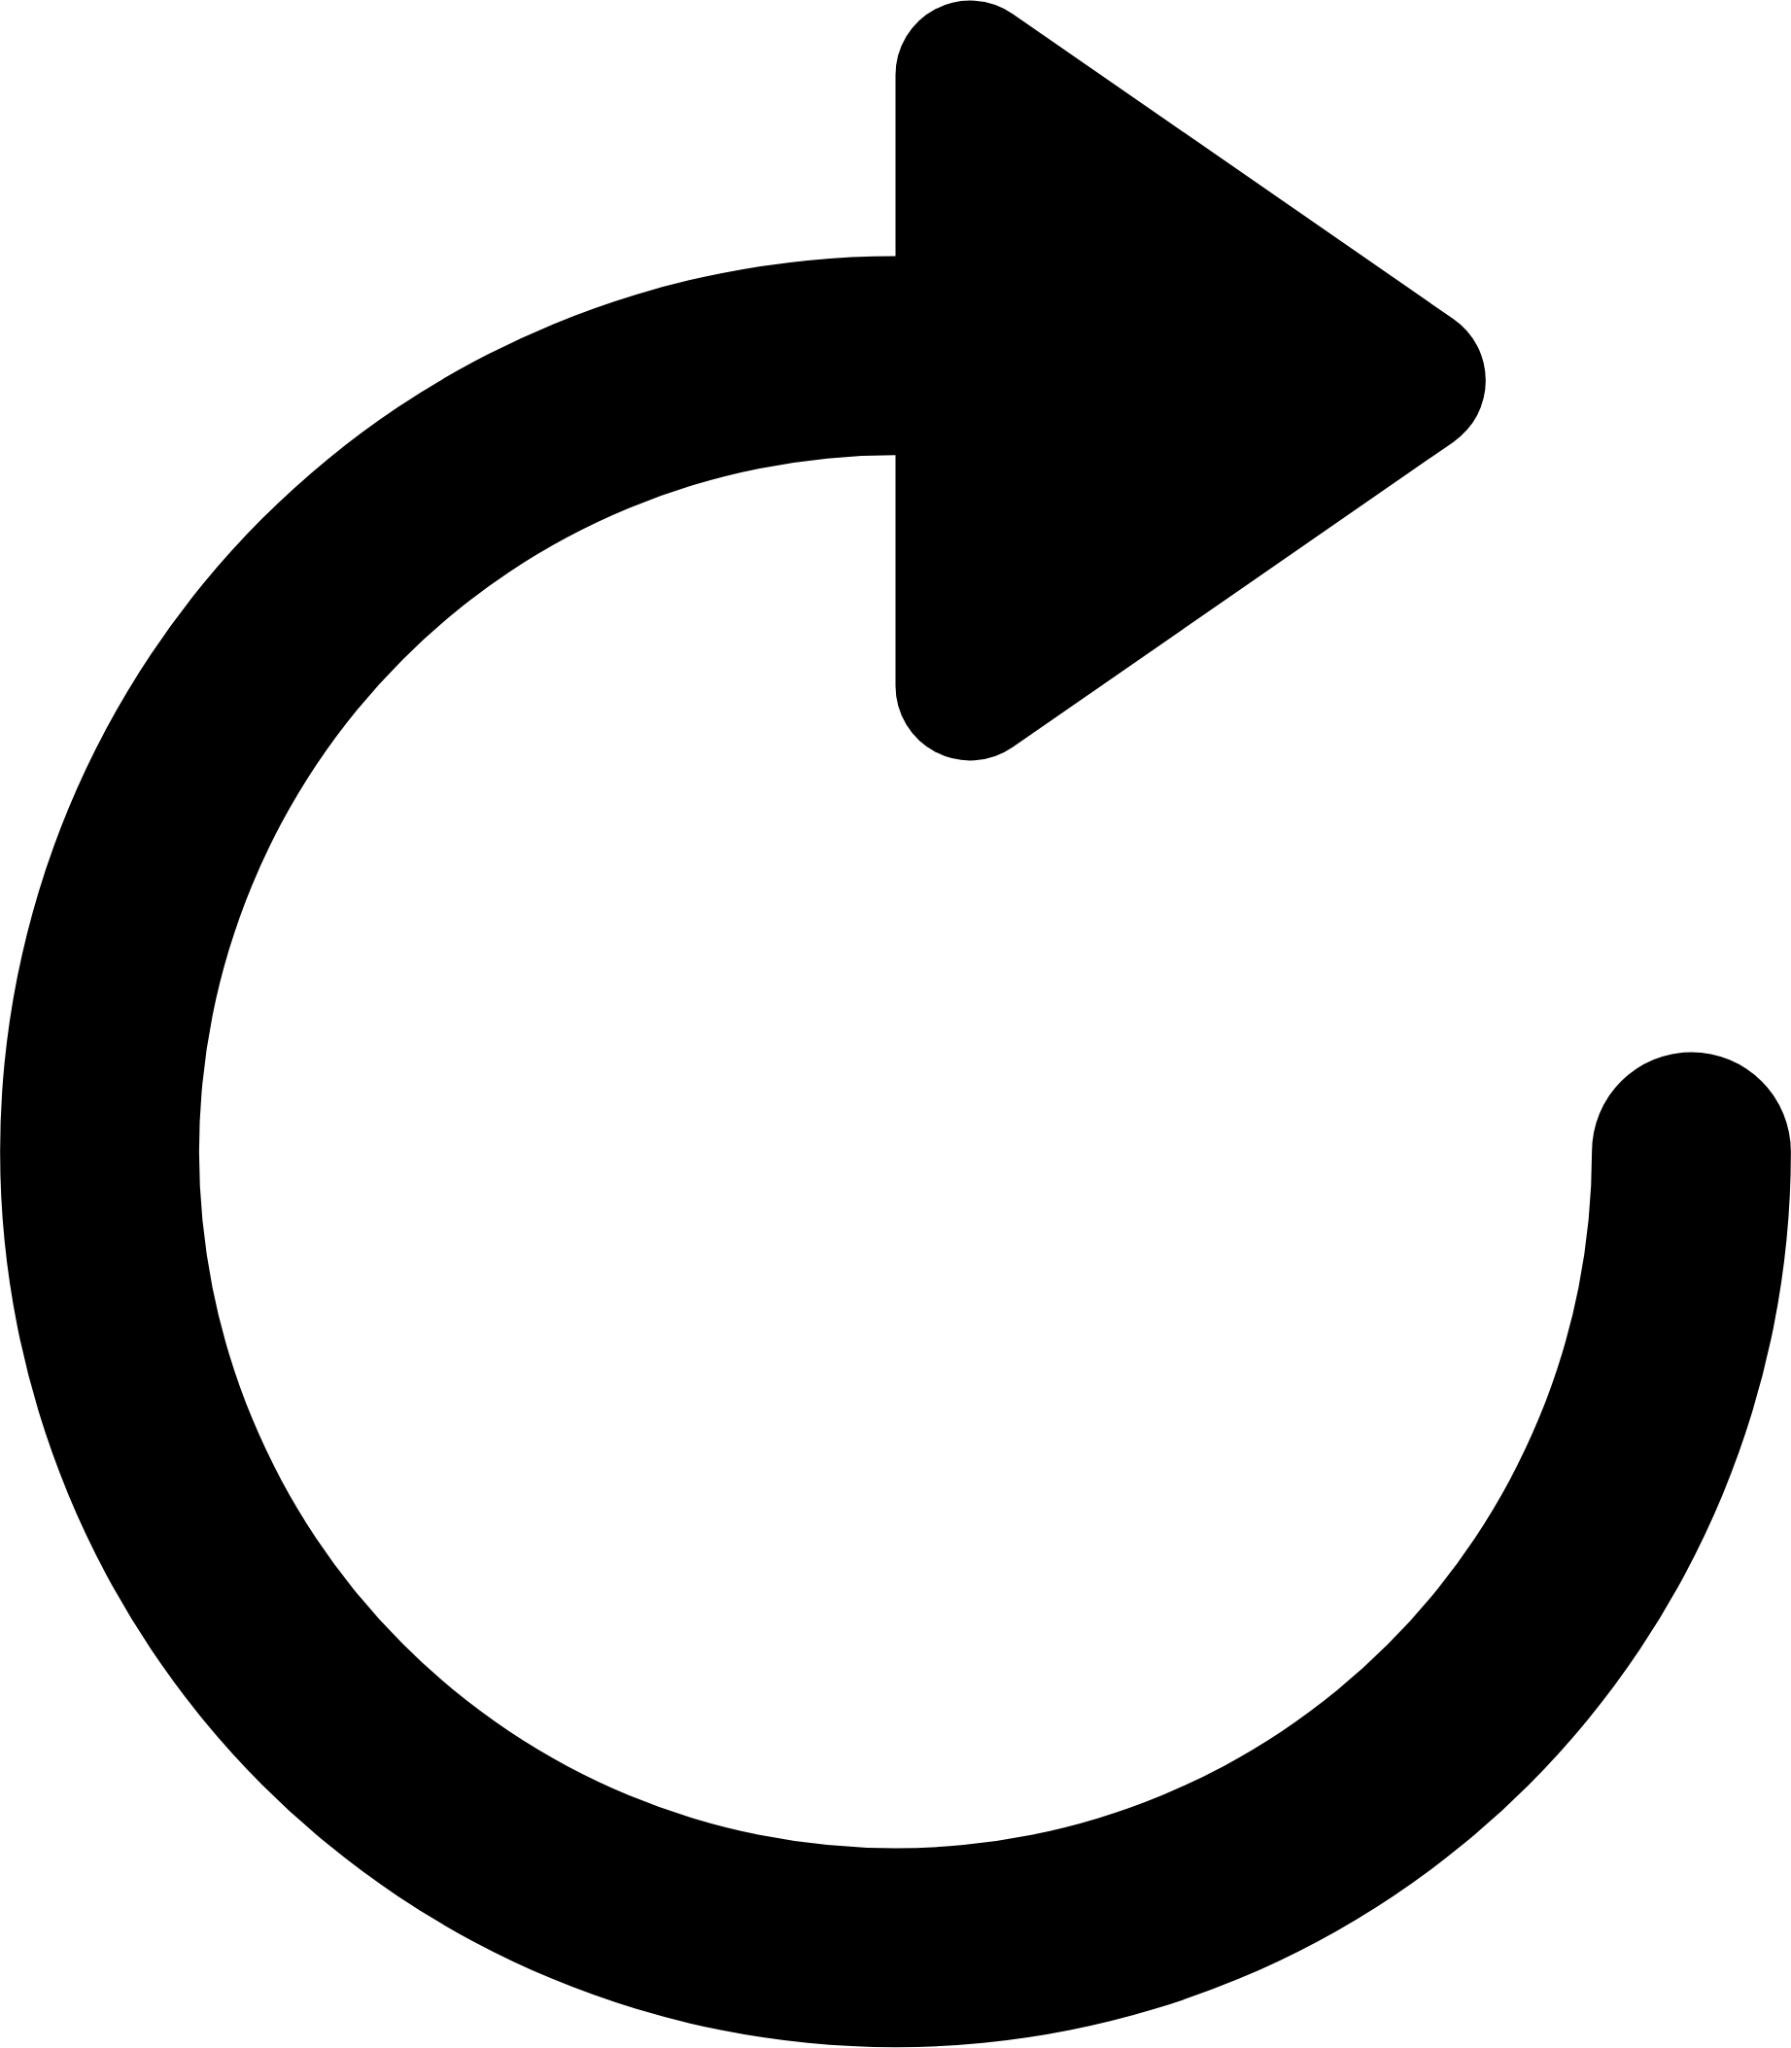
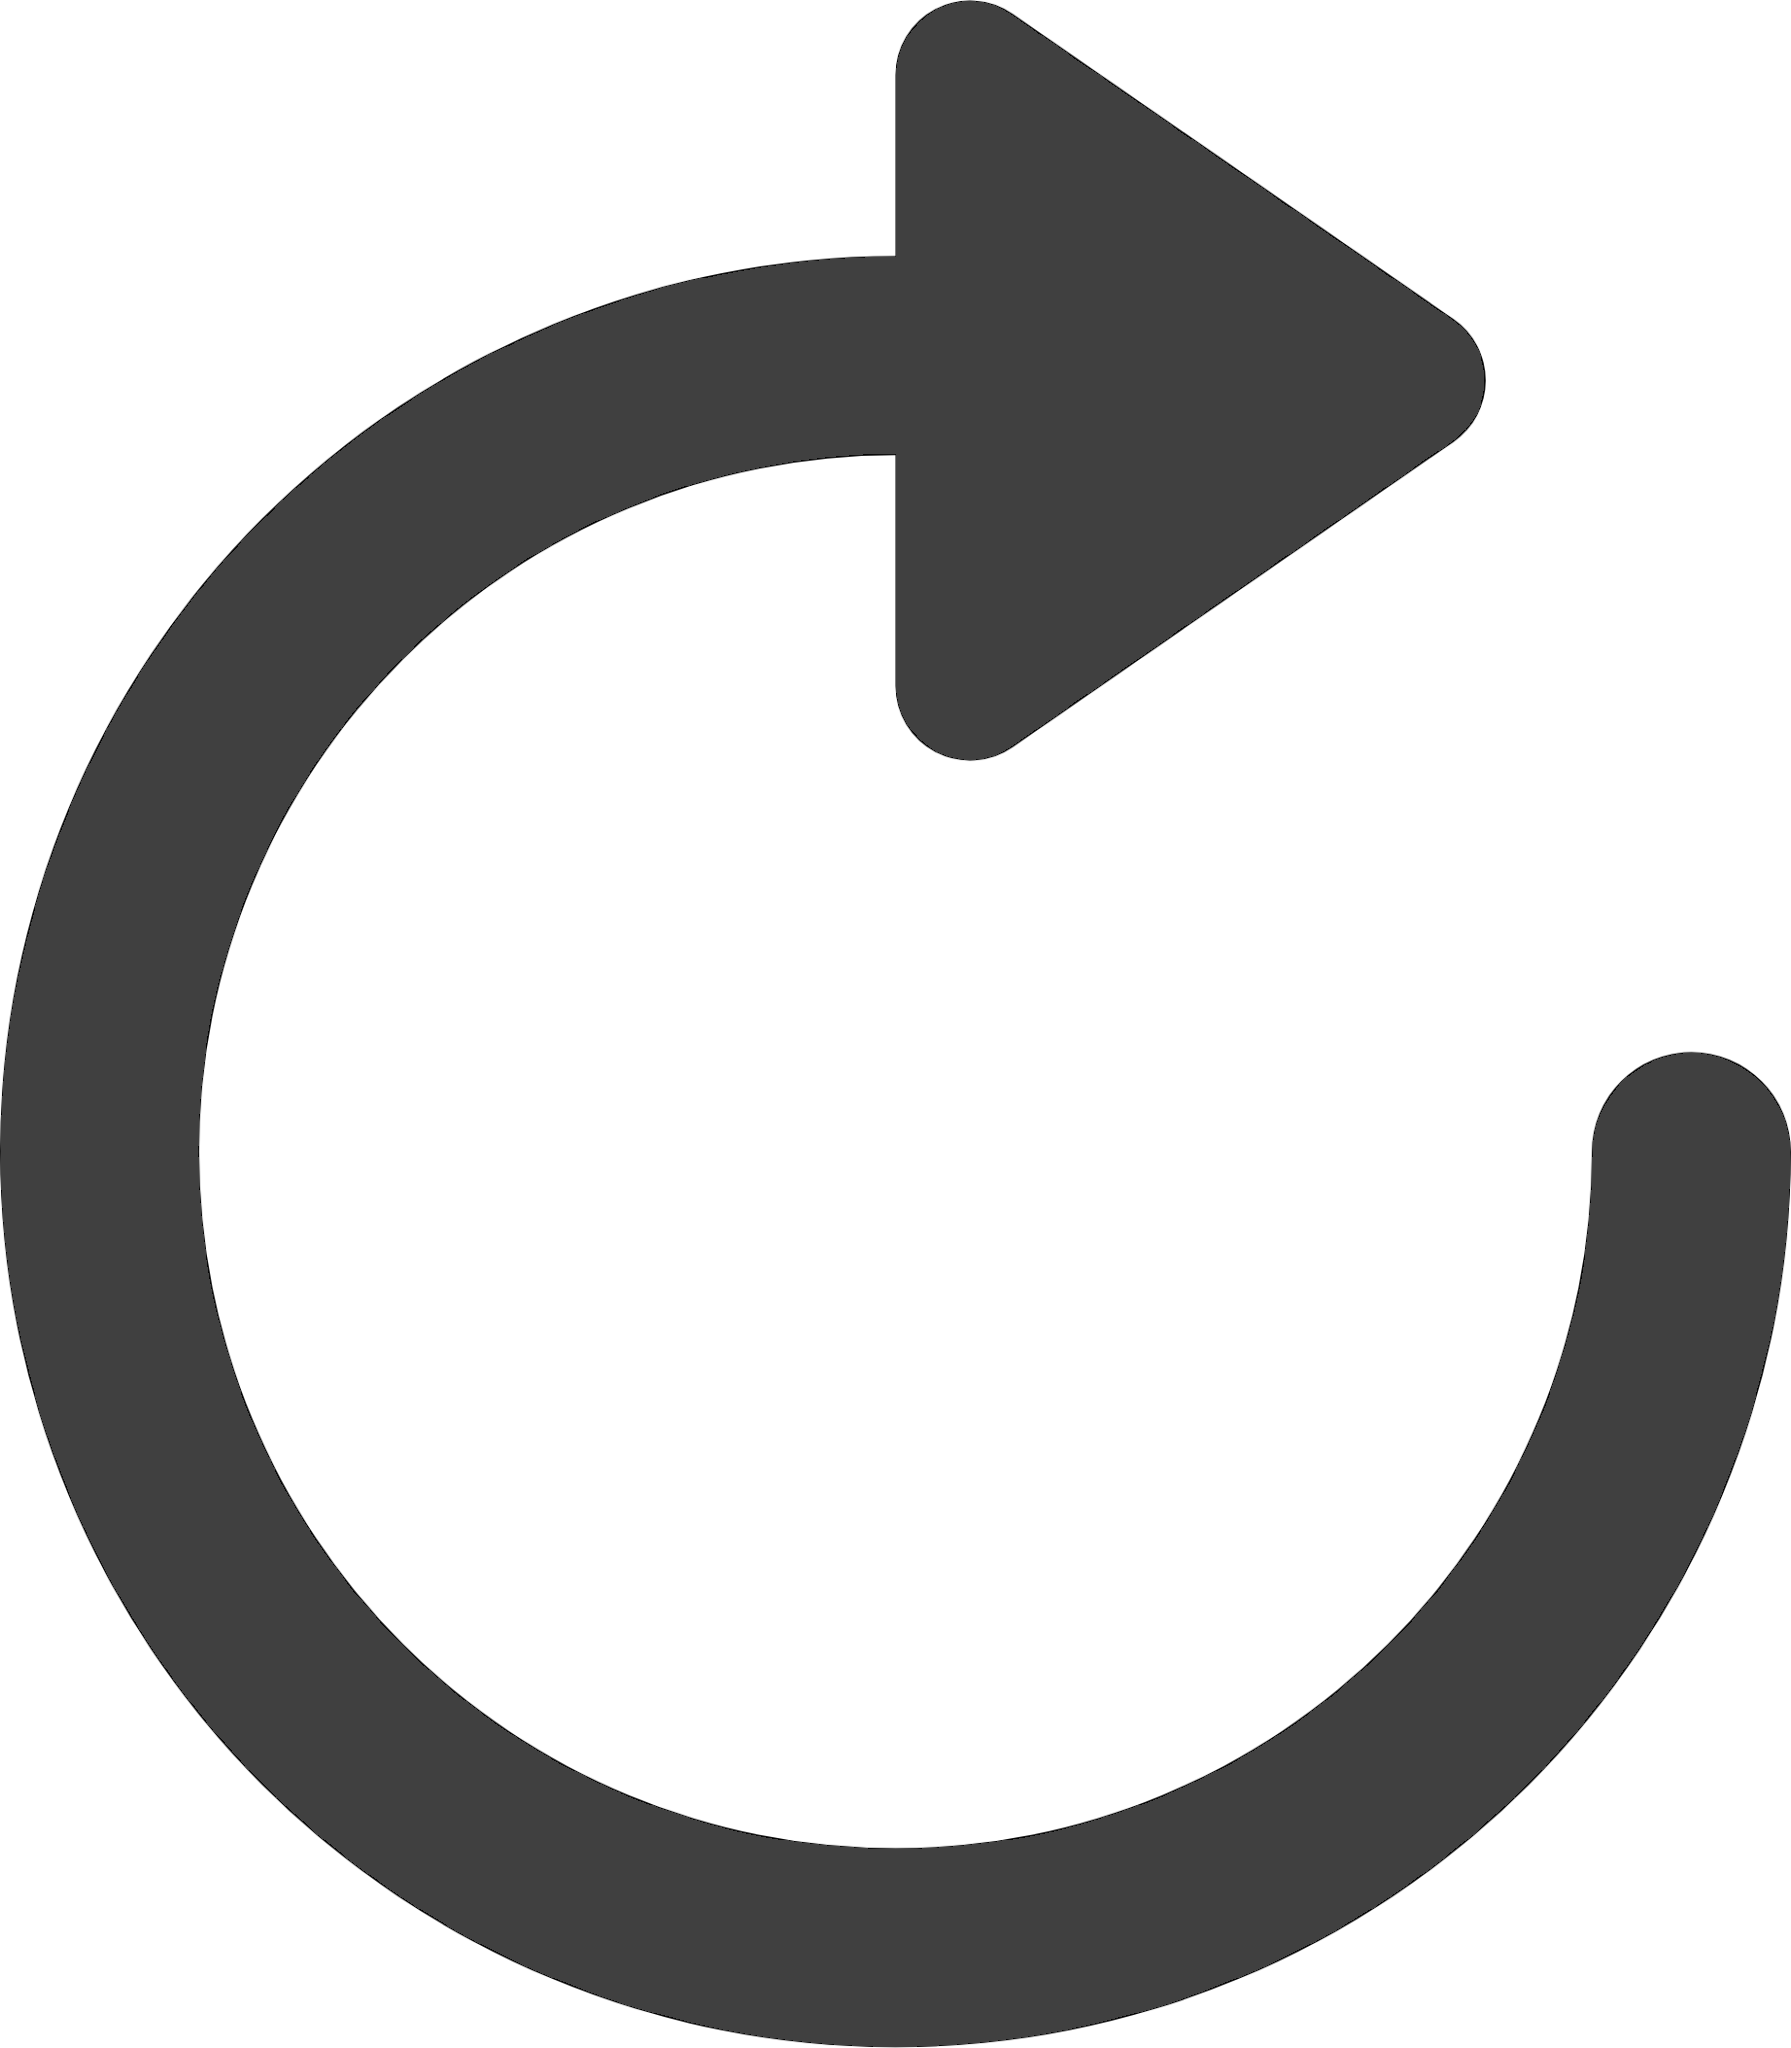
buetifications

Changed region(s): [[0.0, 0.0, 1.0, 1.0]]

diff --git a/phototherapy/index.html b/phototherapy/index.html
@@ -5,9 +5,9 @@
 <meta name="viewport" content="width=device-width, initial-scale=1.0">
 <title>צהבת ביילוד - אסותא אשדוד</title>
 <link rel="icon" href="../assets/favicon.svg">
-<link rel="stylesheet" href="../common/css/common.css">
 <link href="../3rd-party/bootstrap/bootstrap.min.css" rel="stylesheet">
 <link rel="stylesheet" href="../3rd-party/fontawesome/fontawesome-free-6.5.1-web/css/all.min.css">
+<link rel="stylesheet" href="../common/css/common.css">
 <link rel="stylesheet" href="css/phototherapy.css">
 </head>
 <body ng-app="app" ng-controller="PhototherapyController as ctrl" >
@@ -23,15 +23,16 @@
 <div id="phototherapy-main" class="container phototherapy-main-content">  
 <div id="calculator"  ng-show="ctrl.dataShown=='CALCULATOR'" >
   <div class="group-container">
-    <div style="width:100%; text-align: center;margin-top: 20px;">
-        <h1 style="width:80%;float:right;">צהבת ביילוד</h1>
-        <div class="reset-button">
-            <span ng-click="ctrl.resetAll()"><img style="cursor:pointer; width: 35px; height: 35px;margin-right:10px; " src="../assets/refresh.png"></span>
-        </div>
-        <div style="clear:both;"></div>  
-    </div>
     <form>
       <div class="container">
+        <div class="row form-group">
+            <div class="col fs-3 input-caption">
+                <h1 style="width:80%;float:right;">צהבת ביילוד</h1>
+            </div>
+            <div class="col reset-button">
+                <span ng-click="ctrl.resetAll()"><img style="cursor:pointer; width: 35px; height: 35px;margin-right:10px; " src="../assets/refresh.png"></span>
+            </div>        
+        </div>
         <div class="row form-group">
             <div class="col-auto fs-3 input-caption col-auto-buttons-cols">
                 שבוע לידה:
@@ -44,7 +45,7 @@
         <div class="row form-group">
             <div class="col-auto fs-3 input-caption col-auto-buttons-cols">
                  גורם סיכון
-                 <i style="cursor: pointer;vertical-align: top;" ng-click="ctrl.openRiskyConditions()" class="fa-solid fa-circle-info fs-4 info"></i>
+                 <i style="cursor: pointer;vertical-align: top;" ng-click="ctrl.openRiskyConditions()" class="fa-solid fa-circle-info fs-5 info"></i>
                  :
             </div>
             <div class="col" >
@@ -75,8 +76,8 @@
     <div class="col">
       <div class="card">
         <div class="card-body" ng-show="ctrl.allInputsSatisfied()">
-          <h3 class="card-title">{{ctrl.rootDiagnose}} <span style="font-size: 0.8rem;"> {{ctrl.distanceFromCurve}} </span></h3>
-          <p class="card-text">היילוד <span>{{ctrl.riskZoneObj['percentileString']}}</span>, באיזור סיכון <span>{{ctrl.riskZoneObj['riskZone']}}</span>. {{ctrl.riskZoneObj['explanation']}}.
+          <h3 class="card-title"><span class="circle" ng-style="ctrl.statusColor"></span>{{ctrl.rootDiagnose}} <span style="font-size: 0.8rem;"> {{ctrl.distanceFromCurve}} </span></h3>
+          <p class="card-text">היילוד <span>{{ctrl.riskZoneObj['percentileString']}}</span> באיזור סיכון <span>{{ctrl.riskZoneObj['riskZone']}}</span>.<br> {{ctrl.riskZoneObj['explanation']}}.
           </p>
         </div>
       </div>
@@ -92,20 +93,20 @@
   <div class="footer-container">
     <div id="footer-menu">
       <a class="footer-button" ng-click="ctrl.openRiskyConditions()">
-        <div style="color: black;"><i class="fa-solid fa-bed-pulse"></i></div>
+        <div style="color: #404040;"><i class="fa-solid fa-bed-pulse"></i></div>
         <div class="text">גורמי סיכון</div>
       </a>
     </div>
     <a class="footer-button" ng-click="ctrl.openGraph('GRAPH_38+', 'assets/graph-week-38.png')">
-        <div style="color: black;">+<i class="fa-solid fa-chart-line">38</i></div>
+        <div style="color: #404040;" >+<i class="fa-solid fa-chart-line">38</i></div>
         <div class="text">גרף שבוע 38+</div>
       </a>
       <a class="footer-button" ng-click="ctrl.openGraph('GRAPH_UNDER_38', 'assets/graph-week-under-38.png')">
-        <div style="color: black;"><i class="fa-solid fa-chart-line">37</i></div>
+        <div style="color: #404040;"><i class="fa-solid fa-chart-line">37</i></div>
         <div class="text">גרף שבוע 35-37</div>
       </a>
       <a class="footer-button" ng-click="ctrl.openGraph('GRAPH_BUTANI', 'assets/butani.png')">
-        <div style="color: black;"><i class="fa-solid fa-chart-gantt"></i></div>
+        <div style="color: #404040;"><i class="fa-solid fa-chart-gantt"></i></div>
         <div class="text">עקומת בוטאני</div>
       </a>
     </div>

diff --git a/phototherapy/css/phototherapy.css b/phototherapy/css/phototherapy.css
@@ -7,6 +7,8 @@ html, body {
     margin: 0 auto; /* Center the body horizontally */
     padding: 0;
     font-family: Arial, sans-serif;
+    color: #404040 !important;
+    background-color: white;    
 }
 
 .form-group {
@@ -30,12 +32,12 @@ html, body {
 }
 
 .checked-button {
-    background-color: blue;
+    background-color: #6FB4ED;
     color: white;
 }
 
 .checked-button:hover {
-    background-color: blue;
+    background-color: #6FB4ED;
     color: white;
 }
 
@@ -52,7 +54,7 @@ html, body {
     font-size: 24px;
 }
 .phototherapy-main-content {        
-    background-color: #ecf0f1;
+    background-color: #F8F8F8 !important;    ;
     /*height: min(82vh, calc(100vh - 10vh - 75px));*/ /*applies only when there is header*/
     height: min(92dvh, calc(100dvh - 75px));
 }
@@ -103,9 +105,17 @@ html, body {
 
   .reset-button {
     margin-left: 20px;
-    float: left;
 	display: grid;
 	align-items: center;
+    justify-content: left;
   }
 
-  
+  .circle {
+    display: inline-block;
+    width: 0.65em; /* Set the width and height to be the same as the font size */
+    height: 0.65em;
+    border-radius: 50%; /* Create a circle using border-radius */    
+    margin-left: 10px;
+  }
+
+

diff --git a/phototherapy/js/phototherapy.js b/phototherapy/js/phototherapy.js
@@ -11,6 +11,7 @@ app.controller("PhototherapyController", ['$scope', '$rootScope', '$http', '$tim
     ctrl.rootDiagnose = '';
     ctrl.distanceFromCurve = '';
     ctrl.riskZoneObj = {};
+    ctrl.statusColor = {};
 
     function init() {
         // check if needed
@@ -55,6 +56,7 @@ app.controller("PhototherapyController", ['$scope', '$rootScope', '$http', '$tim
                 ctrl.distanceFromCurve = "(על קו העקומה)";
             }
             const newRiskZoneObj = getRiskZone(ctrl.ageInHours, ctrl.bilirubin, ctrl.hasRiskFactors, shouldUse);
+            ctrl.statusColor['background-color'] = shouldUse ? 'red' : 'green';
             Object.assign(ctrl.riskZoneObj, newRiskZoneObj);    
         }, 20) ;
     };
